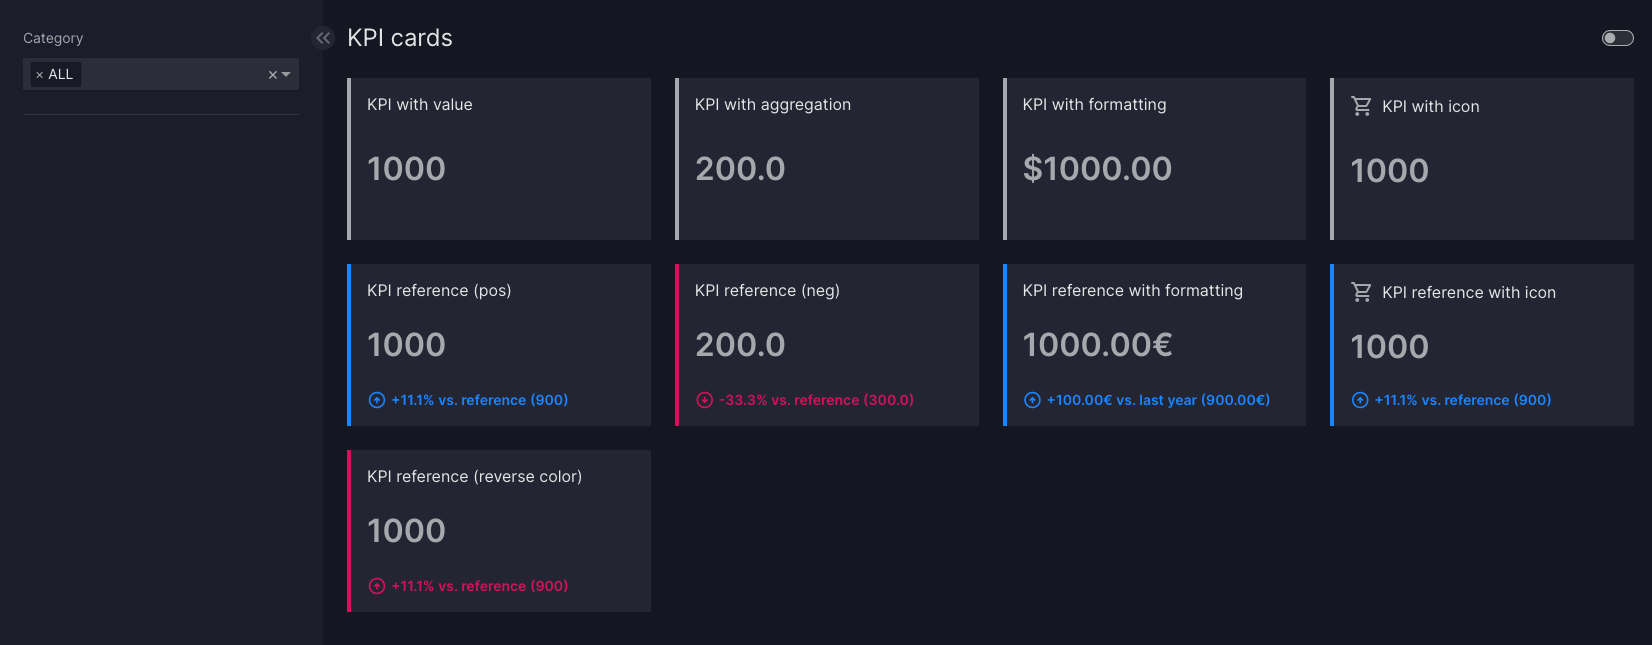
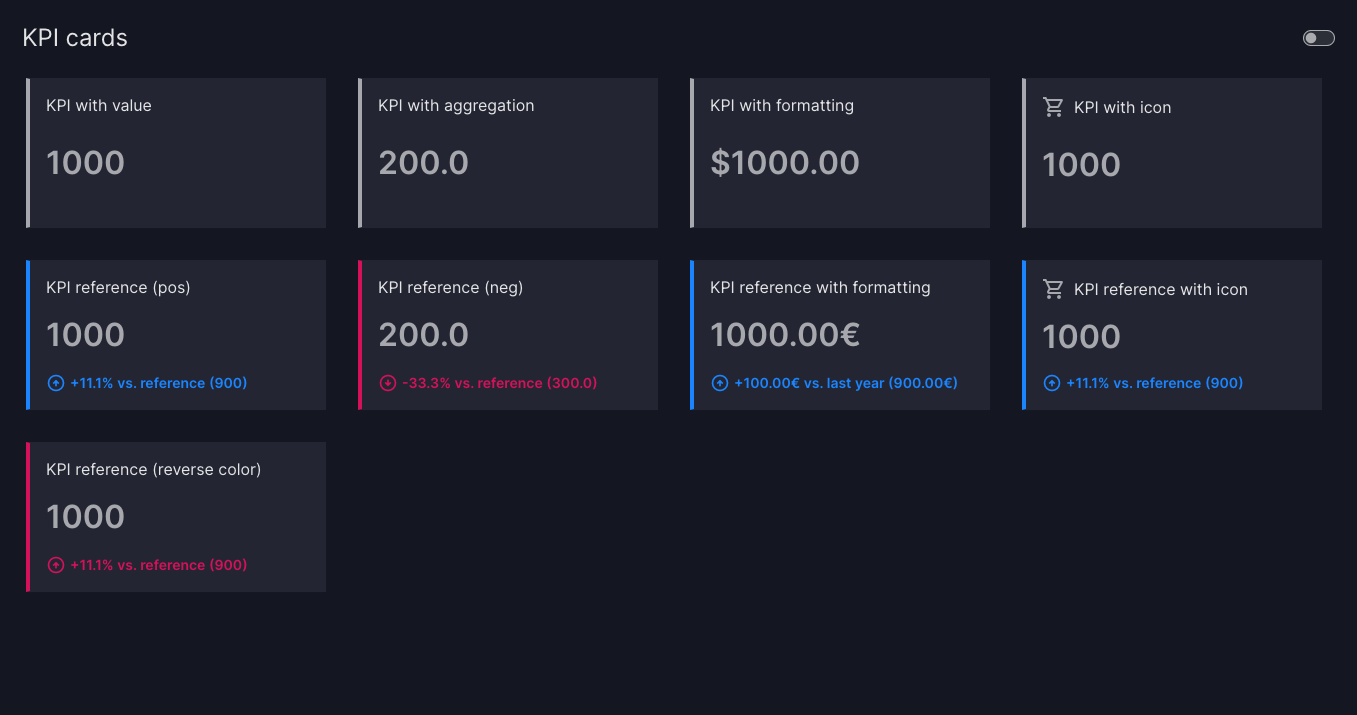
Update second kpi card example and add pyCafe link

diff --git a/vizro-core/examples/scratch_dev/assets/css/custom.css b/vizro-core/examples/scratch_dev/assets/css/custom.css
@@ -3,15 +3,7 @@
 }
 
 /* To uniformly apply a size to all flex-items */
-#page-flex-wrap-row .flex-item {
-  width: 260px;
-}
-
-#page-flex-wrap-row-graphs .flex-item {
+.card-kpi {
+  height: 150px;
   width: 300px;
-}
-
-/* Apply width to all KPI Cards */
-#page-flex-inside-flex .card-kpi {
-  width: 250px;
 }

diff --git a/vizro-core/docs/pages/user-guides/figure.md b/vizro-core/docs/pages/user-guides/figure.md
@@ -46,13 +46,13 @@ To add a `Figure` to your page:
         import vizro.models as vm
         import vizro.plotly.express as px
         from vizro import Vizro
-        from vizro.figures import kpi_card
+        from vizro.figures import kpi_card  # (1)!
 
         tips = px.data.tips
 
         page = vm.Page(
             title="KPI card",
-            layout=vm.Flex(direction="row"), # (1)!
+            layout=vm.Flex(direction="row"), # (2)!
             components=[
                 vm.Figure(
                     figure=kpi_card( # (2)!
@@ -71,8 +71,8 @@ To add a `Figure` to your page:
         Vizro().build(dashboard).run()
         ```
 
+        1. For more information, refer to the API reference for [`kpi_card`][vizro.figures.kpi_card]
         1. We switch to a [`Flex`][vizro.models.Flex] layout so that the KPI card only takes up as much space as it needs.
-        1. For more information, refer to the API reference for [`kpi_card`][vizro.figures.kpi_card_reference]
 
     === "app.yaml"
 
@@ -116,14 +116,23 @@ As described in the [API reference](../API-reference/figure-callables.md) and il
 
 !!! example "KPI card variations"
 
+    === "my_css_file.css"
+
+        ```css
+        /* We define a fixed height and width to ensure uniform styling for all KPI cards. */
+        .flex-item .card-kpi {
+            width: 300px;
+            height: 150px;
+        }
+        ```
+
     === "app.py"
 
-        ```{.python pycafe-link}
+        ```py
         import pandas as pd
         import vizro.models as vm
         from vizro import Vizro
-        # For more information, refer to the API reference for kpi_card and kpi_card_reference
-        from vizro.figures import kpi_card, kpi_card_reference
+        from vizro.figures import kpi_card, kpi_card_reference  # (1)!
 
         df_kpi = pd.DataFrame({"Actual": [100, 200, 700], "Reference": [100, 300, 500], "Category": ["A", "B", "C"]})
 
@@ -178,22 +187,24 @@ As described in the [API reference](../API-reference/figure-callables.md) and il
                 value_column="Actual",
                 reference_column="Reference",
                 title="KPI reference (reverse color)",
-                reverse_color=True
+                reverse_color=True,
             ),
         ]
 
-        # Create a layout with four rows and columns. The KPI cards are positioned in the first nine cells, while the remaining cells are empty.
         page = vm.Page(
             title="KPI cards",
-            layout=vm.Grid(grid=[[0, 1, 2, 3], [4, 5, 6, 7], [8, -1, -1, -1], [-1, -1, -1, -1]]),
-
+            layout=vm.Flex(direction="row", wrap=True),
             components=[vm.Figure(figure=figure) for figure in example_cards + example_reference_cards],
-            controls=[vm.Filter(column="Category")],
         )
 
         dashboard = vm.Dashboard(pages=[page])
         Vizro().build(dashboard).run()
         ```
+
+        1. For more information, refer to the API reference for [`kpi_card`][vizro.figures.kpi_card] and [`kpi_card_reference`][vizro.figures.kpi_card_reference]
+        1. We use a [`Flex`][vizro.models.Flex] layout with `direction=row` and `wrap=True` to allow KPI cards to wrap to the next line when needed.
+
+        <img src=https://py.cafe/logo.png alt="PyCafe logo" width="30"><b><a target="_blank" href="https://py.cafe/vizro-official/vizro-kpi-cards">Run and edit this code in PyCafe</a></b>
 
     === "app.yaml"
 
@@ -269,12 +280,10 @@ As described in the [API reference](../API-reference/figure-callables.md) and il
                   title: KPI reference (reverse color)
                   reverse_color: true
                 type: figure
-            controls:
-              - column: Category
-                type: filter
             layout:
-              grid: [[0, 1, 2, 3], [4, 5, 6, 7], [8, -1, -1, -1], [-1, -1, -1, -1]]
-              type: grid
+              direction: row
+              wrap: true
+              type: flex
             title: KPI cards
         ```
 
